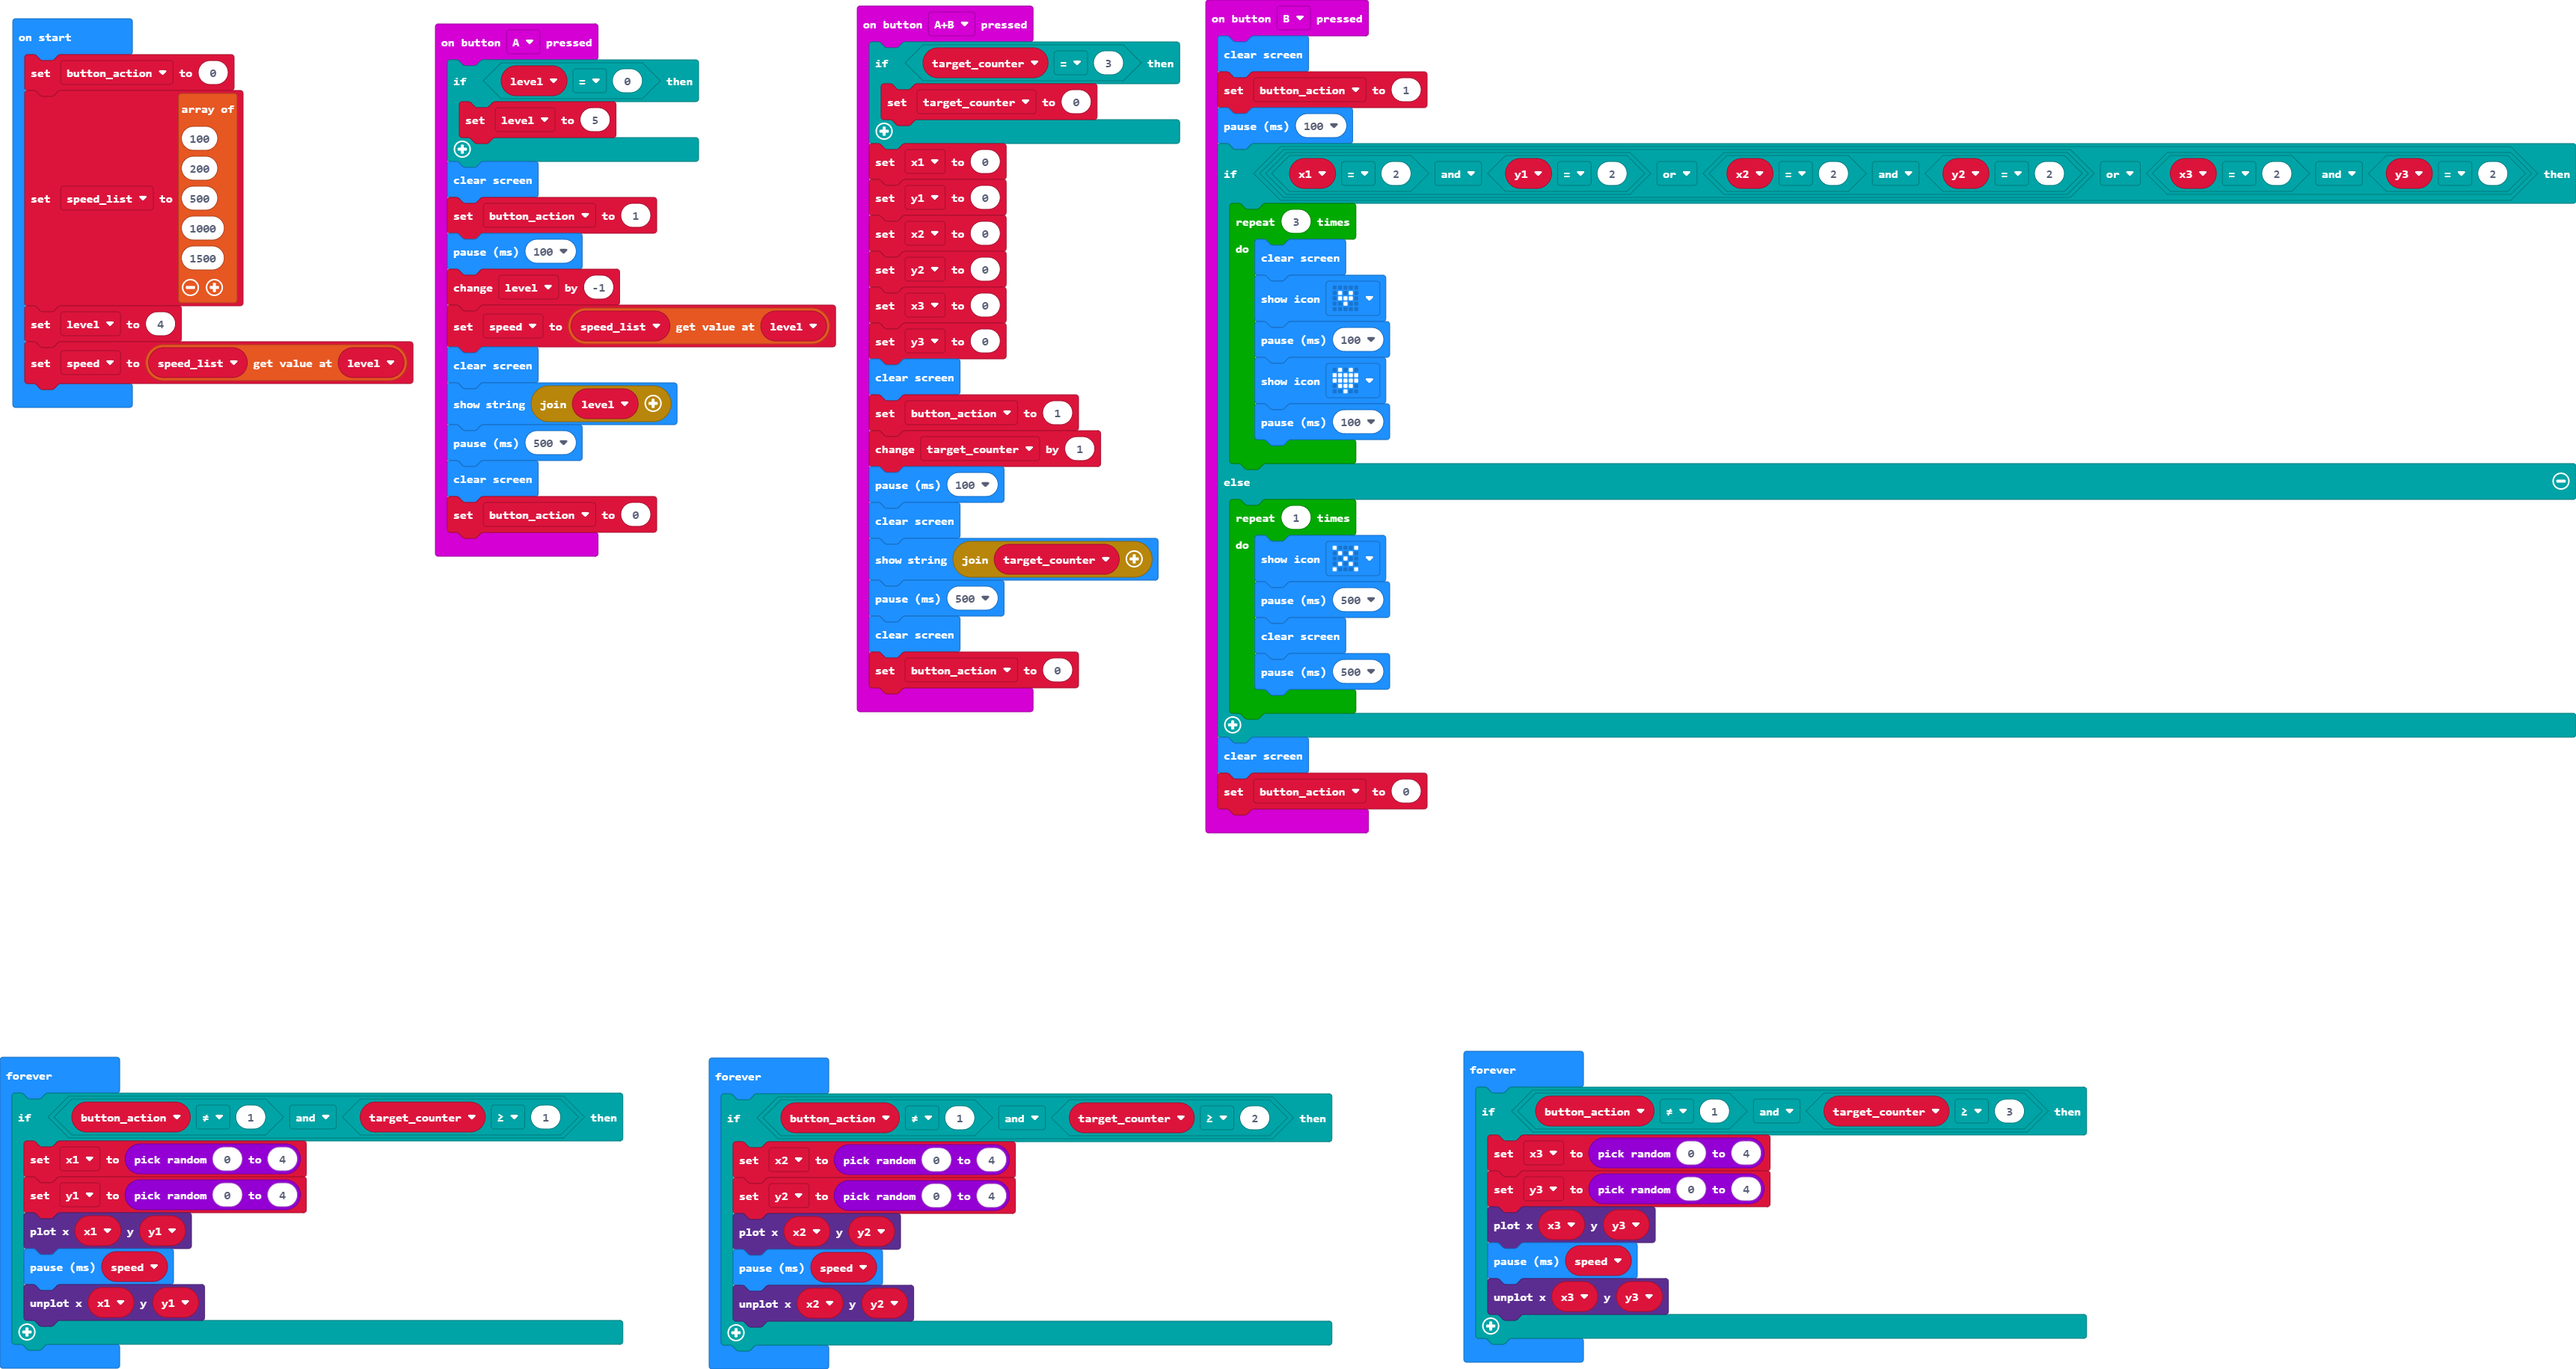
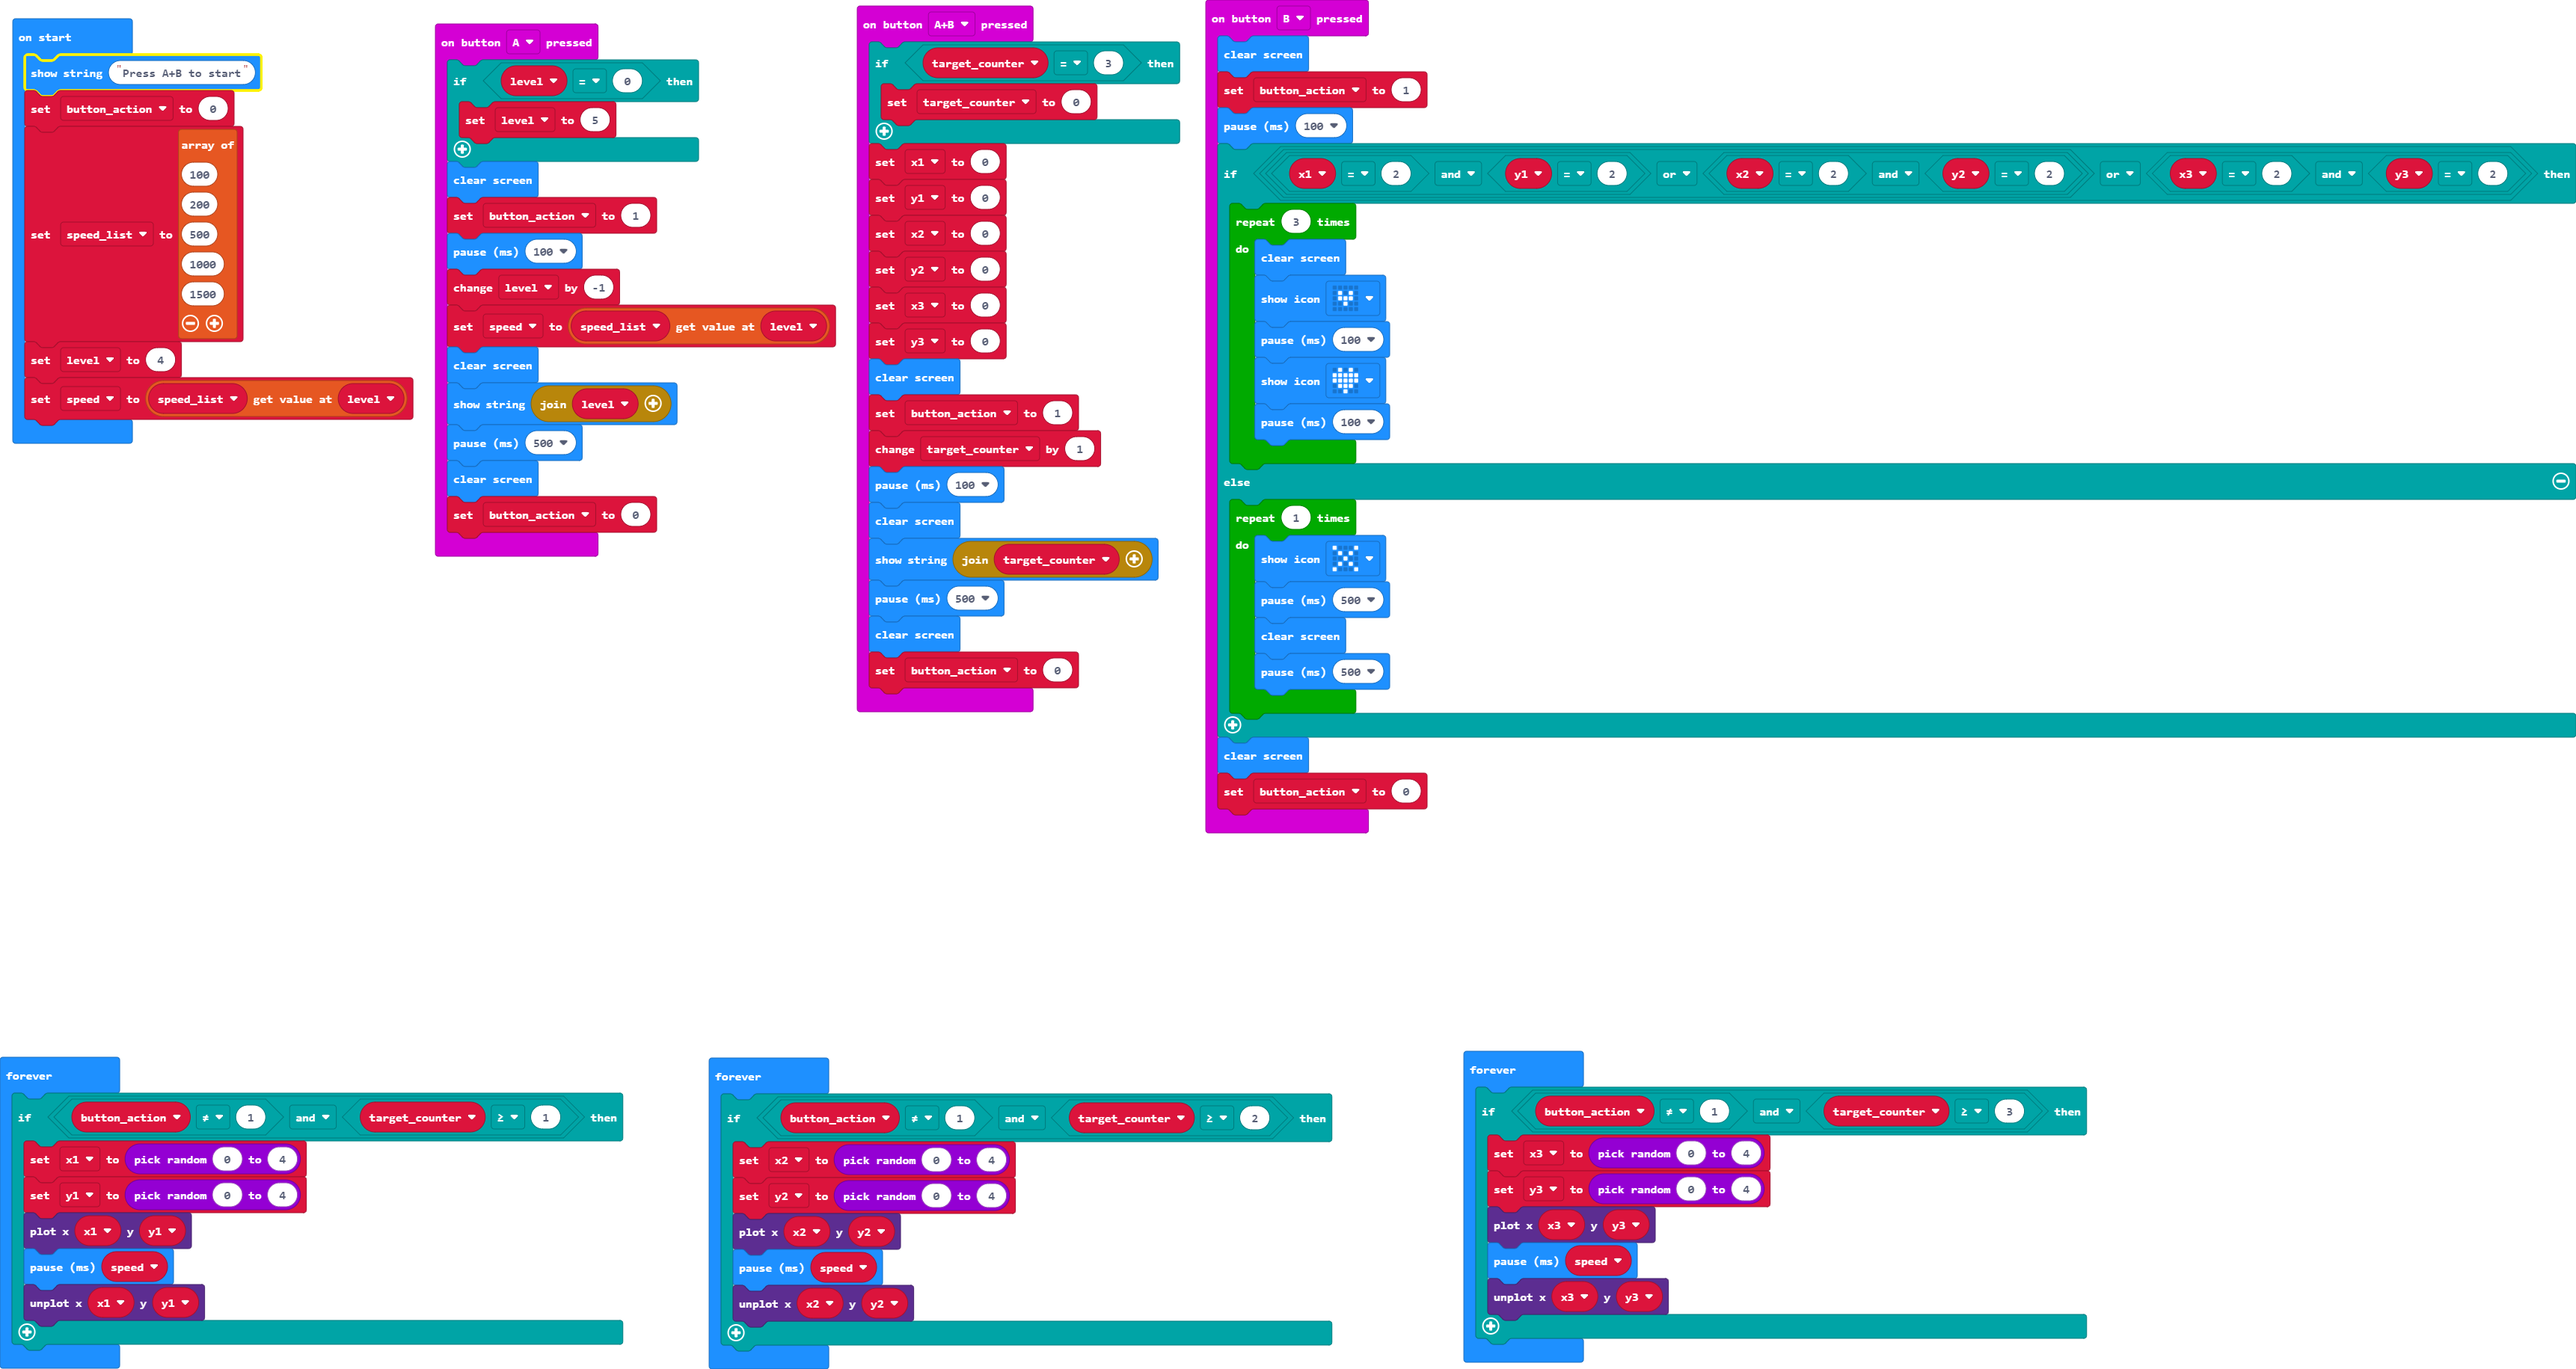
press start

Changed region(s): [[0.0, 0.0311, 0.1864, 0.3424]]

diff --git a/main.ts b/main.ts
@@ -67,6 +67,7 @@ let speed = 0
 let level = 0
 let speed_list: number[] = []
 let button_action = 0
+basic.showString("Press A+B to start")
 button_action = 0
 speed_list = [
 100,

diff --git a/main.py b/main.py
@@ -82,23 +82,3 @@ def on_forever():
         basic.pause(speed)
         led.unplot(x1, y1)
 basic.forever(on_forever)
-
-def on_forever2():
-    global x2, y2
-    if button_action != 1 and target_counter >= 2:
-        x2 = randint(0, 4)
-        y2 = randint(0, 4)
-        led.plot(x2, y2)
-        basic.pause(speed)
-        led.unplot(x2, y2)
-basic.forever(on_forever2)
-
-def on_forever3():
-    global x3, y3
-    if button_action != 1 and target_counter >= 3:
-        x3 = randint(0, 4)
-        y3 = randint(0, 4)
-        led.plot(x3, y3)
-        basic.pause(speed)
-        led.unplot(x3, y3)
-basic.forever(on_forever3)
